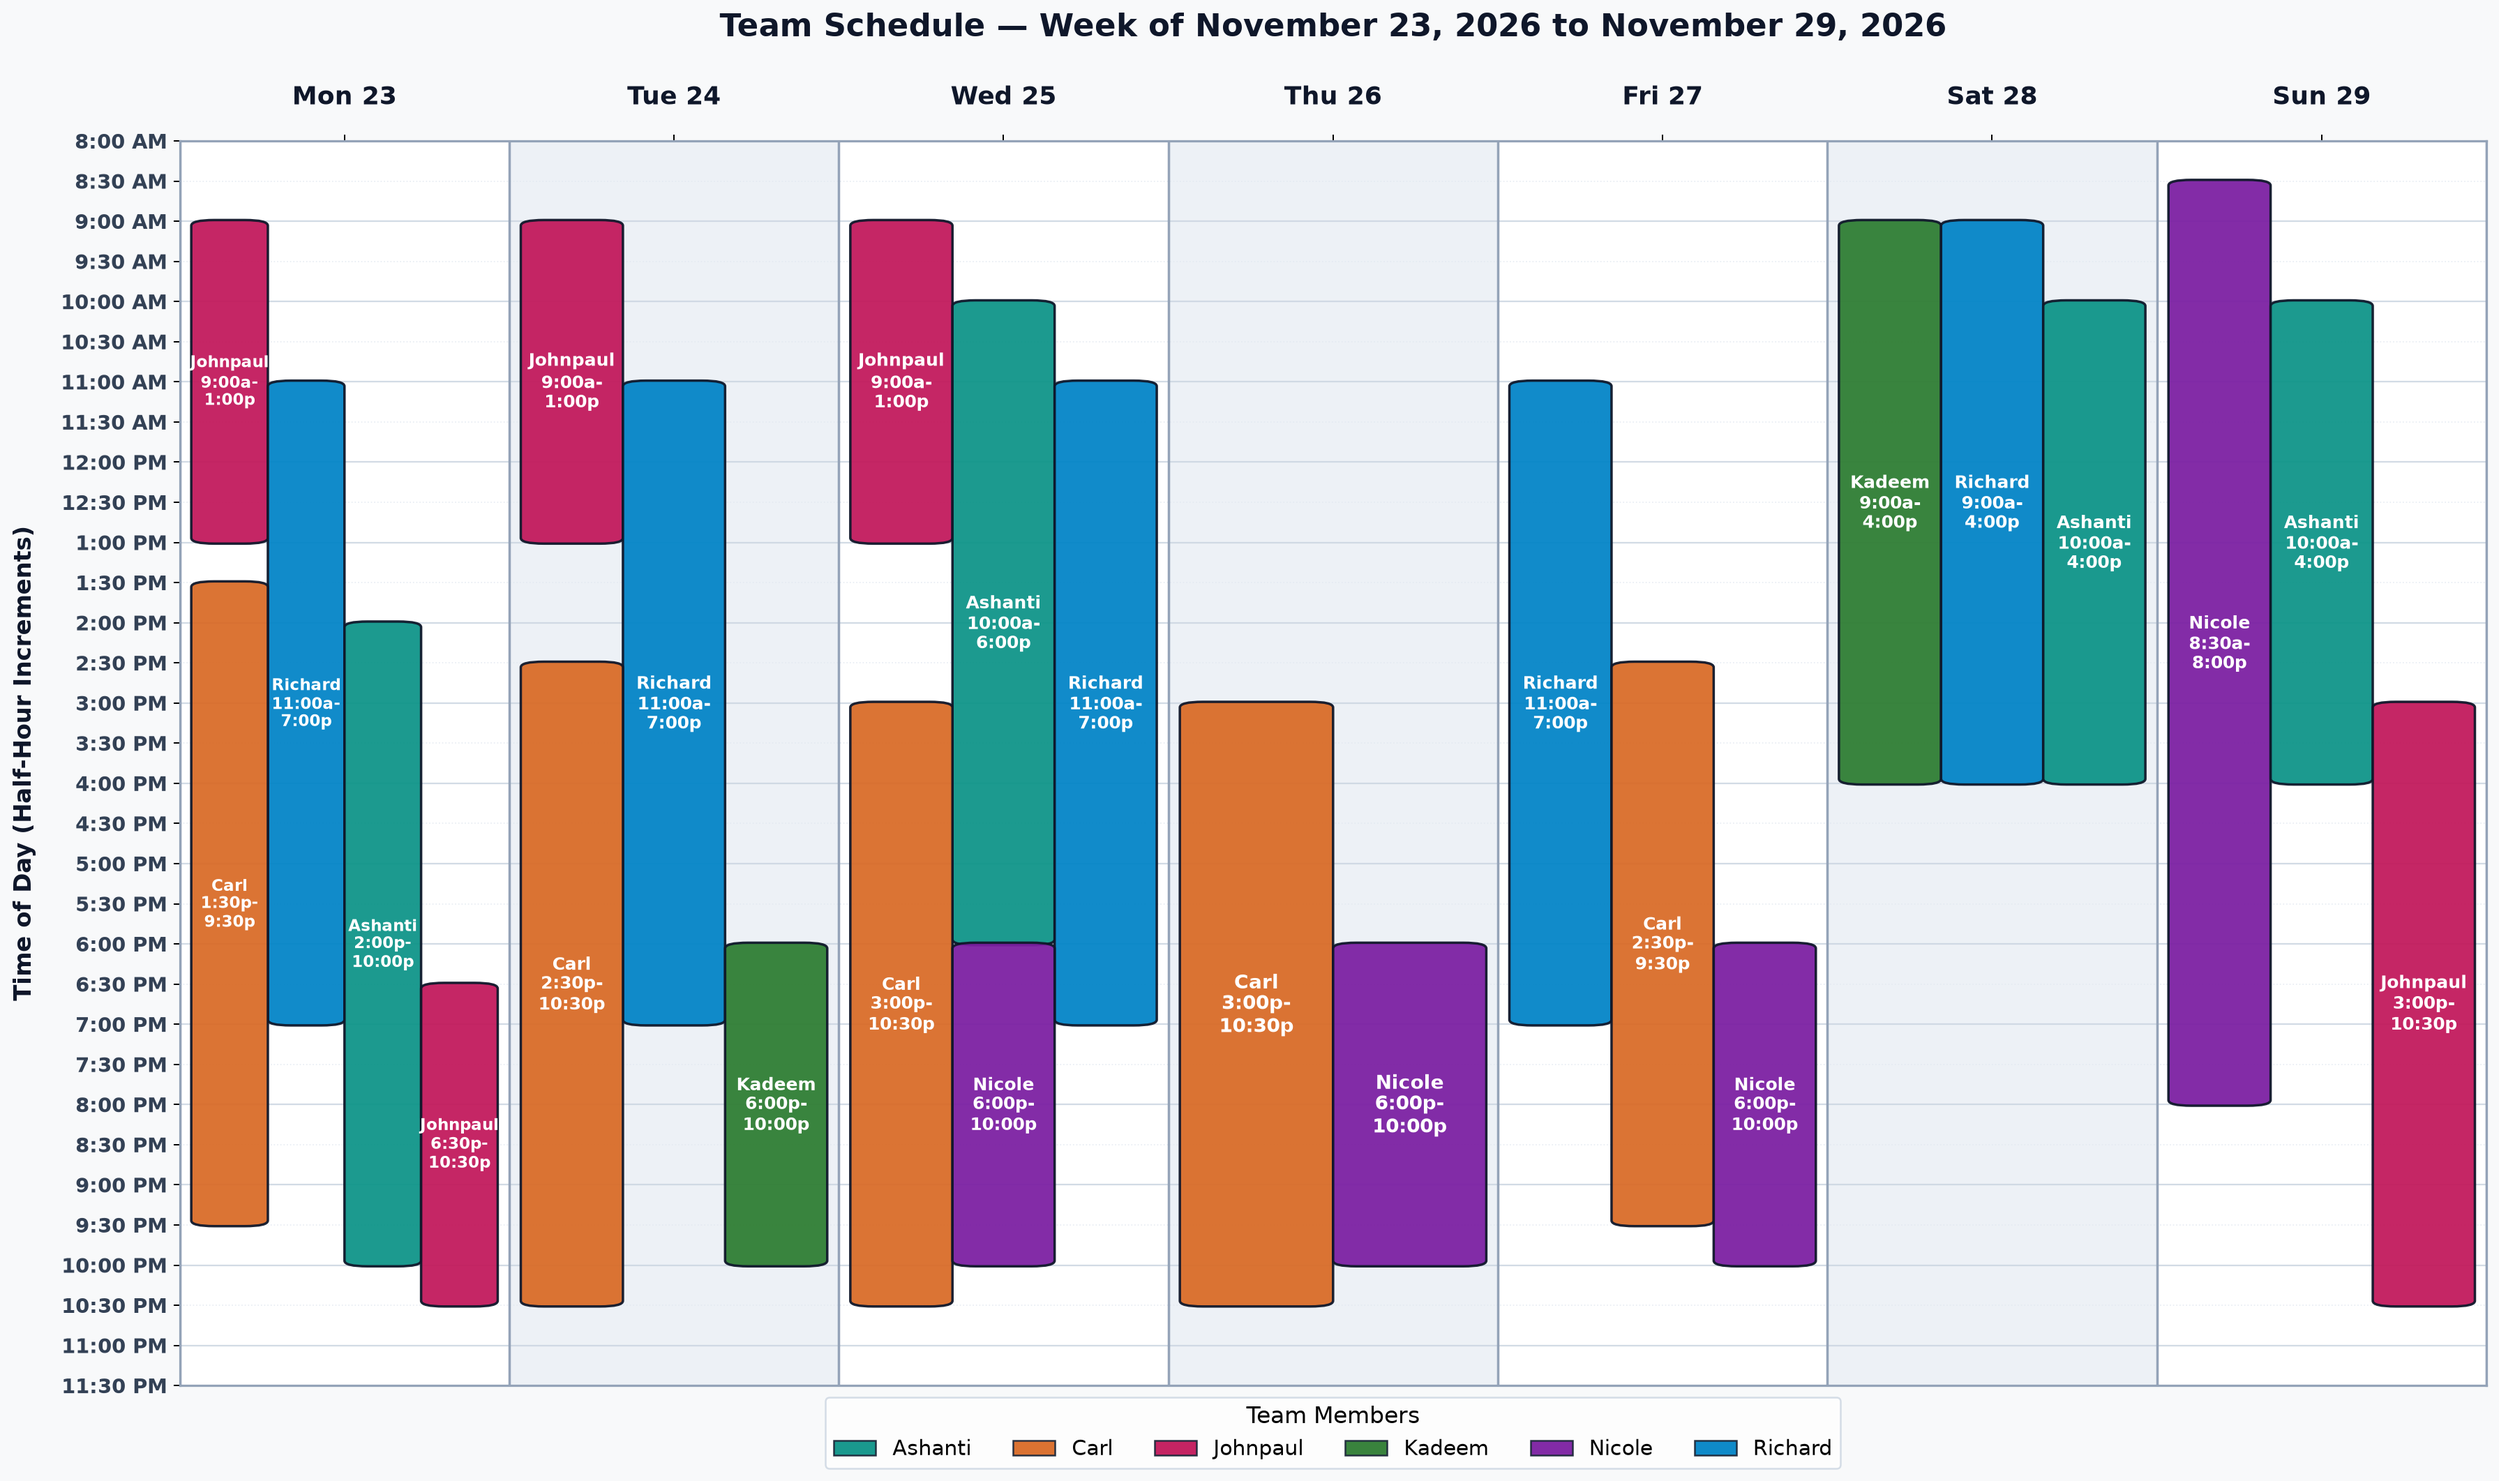
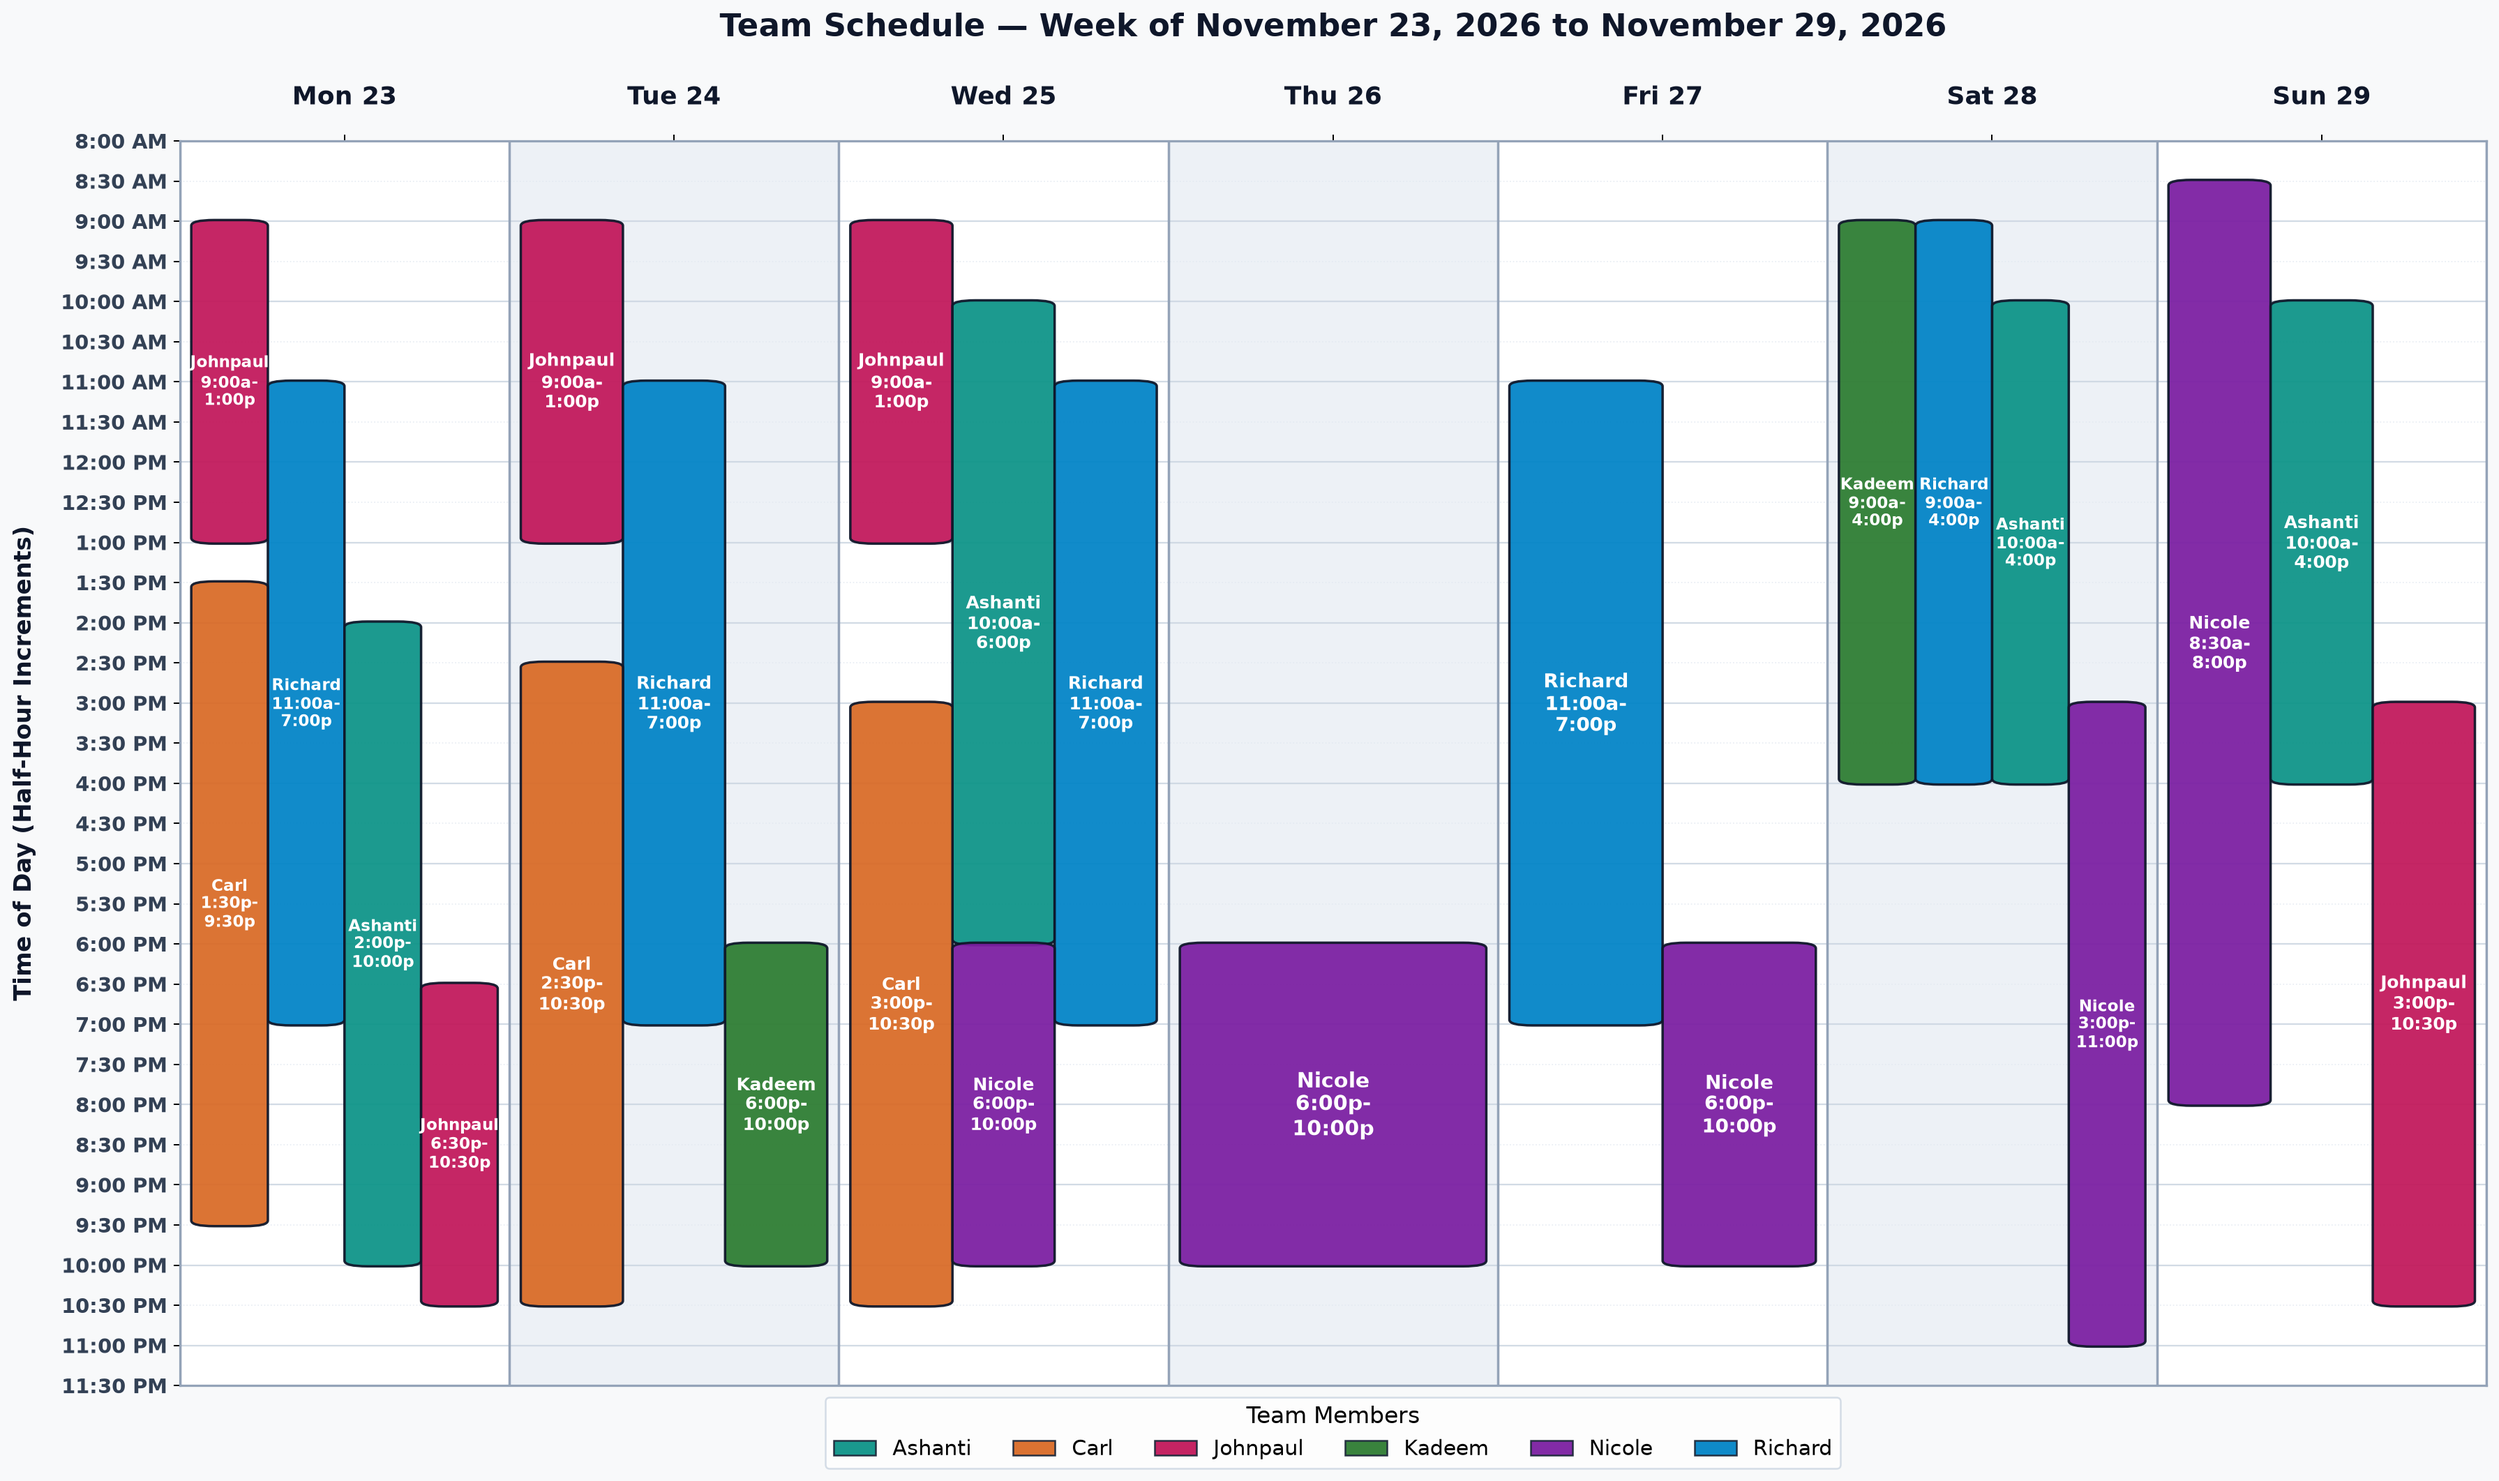
Update staff schedule for week of Nov 23, 2026 (Nicole Sat shift, Carl off Thu & Fri)

Changed region(s): [[0.7437, 0.1244, 0.8677, 0.9326], [0.6198, 0.2487, 0.7127, 0.8705], [0.4648, 0.4663, 0.5888, 0.9016]]

diff --git a/schedule.html b/schedule.html
@@ -1749,12 +1749,12 @@
         "Chris": "#059669",
         "Ashanti": "#0D9488"
       },
-      "total_hours": 163.0,
-      "total_shifts": 25,
+      "total_hours": 156.5,
+      "total_shifts": 24,
       "stats": {
         "Carl": {
-          "hours": 38.0,
-          "shifts": 5,
+          "hours": 23.5,
+          "shifts": 3,
           "color": "#D96B27"
         },
         "Ashanti": {
@@ -1773,8 +1773,8 @@
           "color": "#2E7D32"
         },
         "Nicole": {
-          "hours": 23.5,
-          "shifts": 4,
+          "hours": 31.5,
+          "shifts": 5,
           "color": "#7B1FA2"
         },
         "Johnpaul": {
@@ -1804,20 +1804,6 @@
           "start": 15.0,
           "end": 22.5,
           "label": "3:00 PM - 10:30 PM"
-        },
-        {
-          "name": "Carl",
-          "day": 3,
-          "start": 15.0,
-          "end": 22.5,
-          "label": "3:00 PM - 10:30 PM"
-        },
-        {
-          "name": "Carl",
-          "day": 4,
-          "start": 14.5,
-          "end": 21.5,
-          "label": "2:30 PM - 9:30 PM"
         },
         {
           "name": "Ashanti",
@@ -1916,6 +1902,13 @@
           "start": 18.0,
           "end": 22.0,
           "label": "6:00 PM - 10:00 PM"
+        },
+        {
+          "name": "Nicole",
+          "day": 5,
+          "start": 15.0,
+          "end": 23.0,
+          "label": "3:00 PM - 11:00 PM"
         },
         {
           "name": "Nicole",
